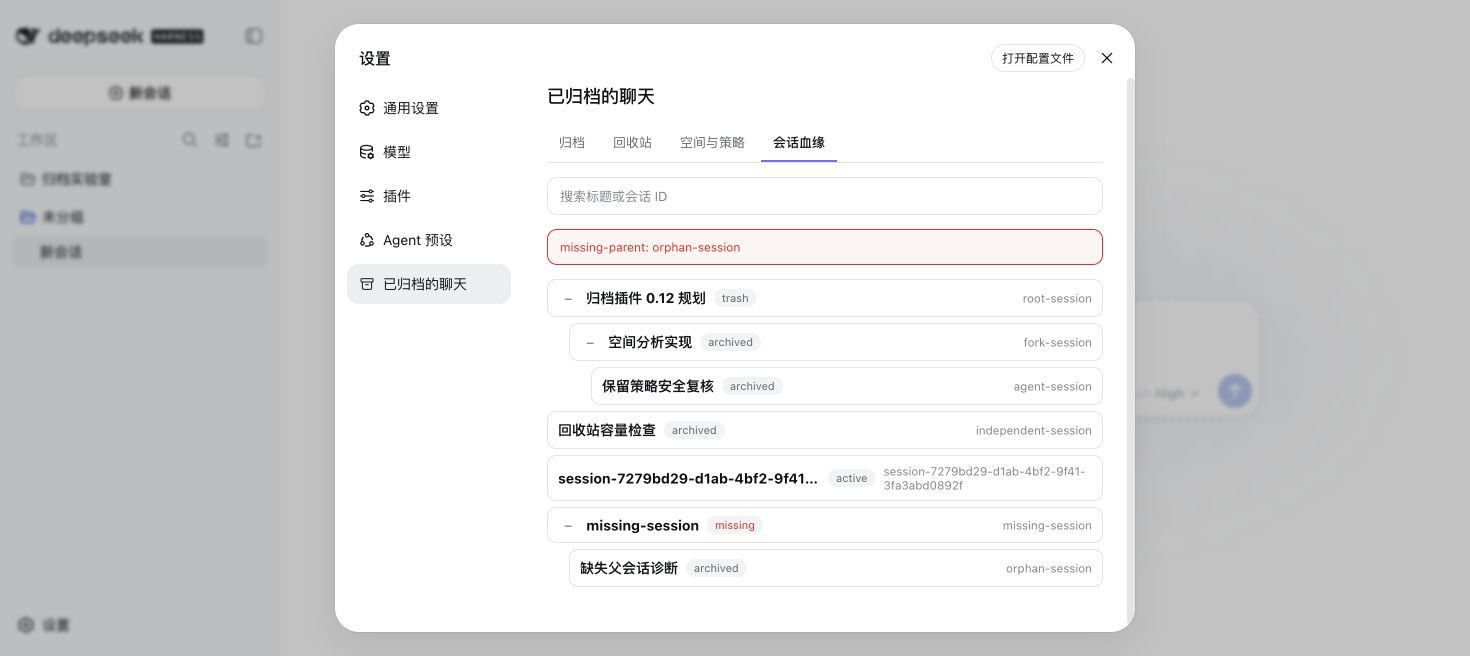
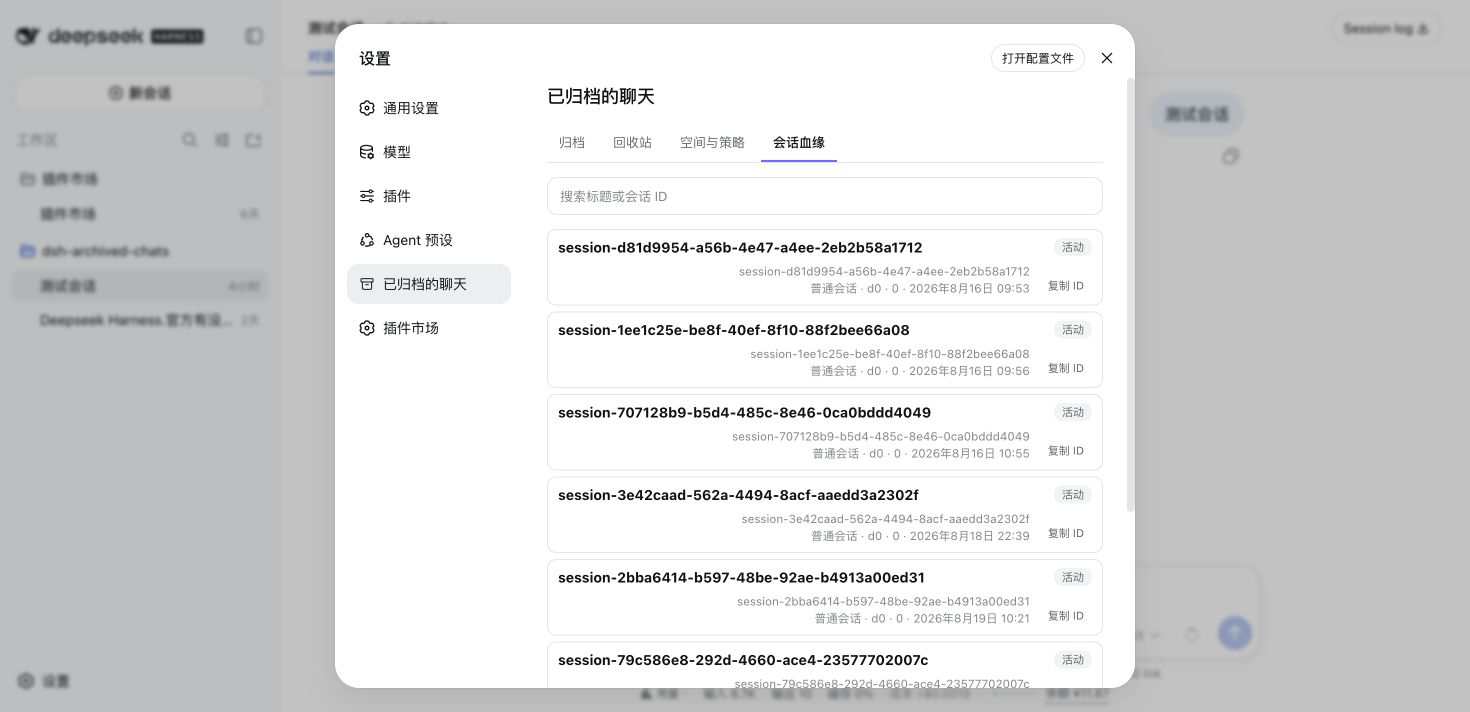
fix: clarify snapshots and add lineage ID copy

diff --git a/lib/client.js b/lib/client.js
@@ -70,6 +70,12 @@ window.__ModuleLoader__.load({
 				"insights.total": "已统计总量",
 				"insights.duplicate": "重复快照附件",
 				"insights.unavailable": "不可用会话 / 降级快照",
+				"insights.snapshot.active": "活动保护快照",
+				"insights.snapshot.history": "历史保护快照",
+				"insights.snapshot.degraded": "降级保护快照",
+				"insights.snapshot.original": "原会话",
+				"insights.snapshot.created": "创建时间",
+				"insights.snapshot.id": "快照 ID",
 				"retention.history": "每个会话保留历史快照",
 				"retention.snapshotAge": "历史快照最长保留天数",
 				"retention.quota": "快照容量上限（字节）",
@@ -92,6 +98,8 @@ window.__ModuleLoader__.load({
 				"retention.result": "已完成 / 失败",
 				"lineage.origin.session": "普通会话",
 				"lineage.origin.subagent": "子代理",
+				"lineage.copyId": "复制 ID",
+				"lineage.copiedId": "已复制",
 				"lineage.loading": "正在读取会话血缘…",
 				"lineage.error": "会话血缘暂不可用",
 				"lineage.search": "搜索标题或会话 ID",
@@ -245,6 +253,12 @@ window.__ModuleLoader__.load({
 				"insights.total": "Measured total",
 				"insights.duplicate": "Repeated snapshot attachments",
 				"insights.unavailable": "Unavailable sessions / degraded snapshots",
+				"insights.snapshot.active": "Active protection snapshot",
+				"insights.snapshot.history": "Historical protection snapshot",
+				"insights.snapshot.degraded": "Degraded protection snapshot",
+				"insights.snapshot.original": "Original chat",
+				"insights.snapshot.created": "Created",
+				"insights.snapshot.id": "Snapshot ID",
 				"retention.history": "Historical snapshots per session",
 				"retention.snapshotAge": "Historical snapshot maximum age in days",
 				"retention.quota": "Snapshot quota in bytes",
@@ -267,6 +281,8 @@ window.__ModuleLoader__.load({
 				"retention.result": "Applied / failed",
 				"lineage.origin.session": "Session",
 				"lineage.origin.subagent": "Subagent",
+				"lineage.copyId": "Copy ID",
+				"lineage.copiedId": "Copied",
 				"lineage.loading": "Loading session lineage…",
 				"lineage.error": "Session lineage is unavailable",
 				"lineage.search": "Search titles or session IDs",
@@ -802,6 +818,7 @@ window.__ModuleLoader__.load({
 .dac-insights-grid{display:grid;grid-template-columns:repeat(4,minmax(0,1fr));gap:10px}.dac-insights-card{display:flex;flex-direction:column;gap:5px;border:1px solid var(--dsw-alias-border-l2);border-radius:12px;background:var(--dsw-alias-bg-layer-1);padding:14px}.dac-insights-card span{color:var(--dsw-alias-label-tertiary);font-size:12px}.dac-insights-card strong{color:var(--dsw-alias-label-primary);font-size:18px}.dac-policy{display:grid;grid-template-columns:repeat(2,minmax(0,1fr));gap:12px;border:1px solid var(--dsw-alias-border-l2);border-radius:12px;padding:14px}.dac-policy label{display:flex;flex-direction:column;gap:5px;color:var(--dsw-alias-label-secondary);font-size:12px}.dac-policy input{border:1px solid var(--dsw-alias-border-l2);border-radius:8px;background:var(--dsw-alias-bg-layer-1);color:var(--dsw-alias-label-primary);padding:7px 9px}.dac-policy-actions{grid-column:1/-1;display:flex;justify-content:flex-end;gap:8px}.dac-retention-dialog{width:min(620px,calc(100vw - 48px));max-height:min(720px,calc(100vh - 48px))}.dac-retention-list{display:flex;flex-direction:column;gap:8px;overflow:auto}.dac-retention-row{display:flex;gap:10px;border:1px solid var(--dsw-alias-border-l2);border-radius:9px;padding:9px}.dac-retention-row span{display:flex;flex-direction:column}.dac-retention-row small{color:var(--dsw-alias-label-tertiary)}.dac-retention-row.dac-danger strong{color:var(--dsw-alias-state-error-primary)}.dac-lineage-tree{display:flex;flex-direction:column;gap:6px}.dac-lineage-node{min-width:0}.dac-lineage-row{display:flex;align-items:center;gap:8px;border:1px solid var(--dsw-alias-border-l2);border-radius:9px;background:var(--dsw-alias-bg-layer-1);padding:8px 10px}.dac-lineage-row button{border:0;background:transparent;color:var(--dsw-alias-label-secondary);cursor:pointer}.dac-lineage-row strong{min-width:0;overflow:hidden;text-overflow:ellipsis;white-space:nowrap}.dac-lineage-row small{margin-left:auto;color:var(--dsw-alias-label-tertiary);overflow:hidden;text-overflow:ellipsis}.dac-lineage-children{margin:6px 0 0 22px;display:flex;flex-direction:column;gap:6px}.dac-lineage-missing{color:var(--dsw-alias-state-error-primary)}
 .dac-import-main span{color:var(--dsw-alias-label-tertiary);font-size:11px}
 .dac-import-main small{color:var(--dsw-alias-state-error-primary);font-size:11px;line-height:16px}
+.dac-snapshot-row .dac-row-main{gap:3px}.dac-snapshot-id{white-space:normal;overflow-wrap:anywhere;word-break:break-word}.dac-lineage-row{flex-wrap:wrap}.dac-lineage-row>strong{flex:1 1 240px;white-space:normal;overflow:visible;text-overflow:clip;overflow-wrap:anywhere;word-break:break-word}.dac-lineage-detail{display:flex;align-items:flex-end;gap:10px;flex:1 1 100%;min-width:0}.dac-lineage-detail-copy{display:flex;flex:1 1 auto;min-width:0;flex-direction:column;gap:2px}.dac-lineage-id{white-space:normal;overflow-wrap:anywhere;word-break:break-word}.dac-lineage-copy{flex:none;border:1px solid var(--dsw-alias-border-l2);border-radius:7px;background:transparent;color:var(--dsw-alias-label-secondary);font:inherit;font-size:11px;line-height:16px;padding:3px 8px;cursor:pointer}.dac-lineage-copy:hover{background:var(--dsw-alias-interactive-bg-hover,rgba(127,127,127,.12));color:var(--dsw-alias-label-primary)}
 .dac-import-result{display:flex;gap:14px;color:var(--dsw-alias-state-success-primary);font-size:13px;line-height:20px}
 .dac-field-label{display:block;color:var(--dsw-alias-label-secondary);font-size:12px;line-height:18px}
 .dac-meta-input,.dac-meta-note{width:100%;box-sizing:border-box;border:1px solid var(--dsw-alias-border-l2);border-radius:9px;background:var(--dsw-alias-bg-layer-1);color:var(--dsw-alias-label-primary);font:inherit;font-size:13px;line-height:20px;padding:7px 10px;outline:none}
@@ -2057,6 +2074,26 @@ window.__ModuleLoader__.load({
 			}) });
 		}
 
+		function SnapshotInsightRows({ snapshots, sessions, t }) {
+			const sessionById = new Map((Array.isArray(sessions) ? sessions : []).map((session) => [session.id, session]));
+			return (0, jsx.jsx)("div", { className: "dac-list", children: (Array.isArray(snapshots) ? snapshots : []).map((row) => {
+				const ready = row.status === "ready";
+				const label = t(ready ? (row.active ? "insights.snapshot.active" : "insights.snapshot.history") : "insights.snapshot.degraded");
+				const source = sessionById.get(row.sessionId);
+				const original = typeof source?.title === "string" && source.title.trim() !== "" ? source.title : row.sessionId ?? "—";
+				const createdMs = ready && typeof row.createdAt === "string" ? Date.parse(row.createdAt) : Number.NaN;
+				return (0, jsx.jsxs)("div", { className: "dac-row dac-snapshot-row", children: [
+					(0, jsx.jsxs)("div", { className: "dac-row-main", children: [
+						(0, jsx.jsx)("strong", { children: label }),
+						(0, jsx.jsx)("span", { className: "dac-row-date", children: `${t("insights.snapshot.original")}：${original}` }),
+						(0, jsx.jsx)("span", { className: "dac-row-date", children: `${t("insights.snapshot.created")}：${Number.isFinite(createdMs) ? formatDate(t, createdMs) : "—"}` }),
+						(0, jsx.jsx)("span", { className: "dac-row-date dac-snapshot-id", title: row.snapshotId, children: `${t("insights.snapshot.id")}：${row.snapshotId}` }),
+					] }),
+					(0, jsx.jsx)("span", { className: "dac-row-size", children: ready ? formatBytes(row.totalBytes) : "—" })
+				] }, `snapshot:${row.snapshotId}`);
+			}) });
+		}
+
 		function StorageRetentionPanel({ t }) {
 			const [state, setState] = _react.useState({ status: "loading", value: null, error: null });
 			const [draft, setDraft] = _react.useState(null);
@@ -2102,7 +2139,7 @@ window.__ModuleLoader__.load({
 			return (0, jsx.jsxs)("div", { className: "dac-mode-panel", children: [
 				(0, jsx.jsx)("div", { className: "dac-insights-grid", children: cards.map(([label, display]) => (0, jsx.jsxs)("div", { className: "dac-insights-card", children: [(0, jsx.jsx)("span", { children: t(label) }), (0, jsx.jsx)("strong", { children: display })] }, label)) }),
 				(0, jsx.jsx)("div", { className: "dac-list", children: (value.sessions ?? []).map((row) => (0, jsx.jsxs)("div", { className: "dac-row", children: [(0, jsx.jsxs)("div", { className: "dac-row-main", children: [(0, jsx.jsx)("strong", { children: row.title ?? row.id }), (0, jsx.jsx)("span", { className: "dac-row-date", children: `${row.workspaceTitle ?? "—"} · ${row.scope}` })] }), (0, jsx.jsx)("span", { className: "dac-row-size", children: row.status === "ready" ? formatBytes(row.sizeBytes) : "—" })] }, `session:${row.id}`)) }),
-				(0, jsx.jsx)("div", { className: "dac-list", children: (value.snapshots ?? []).map((row) => (0, jsx.jsxs)("div", { className: "dac-row", children: [(0, jsx.jsxs)("div", { className: "dac-row-main", children: [(0, jsx.jsx)("strong", { children: row.snapshotId }), (0, jsx.jsx)("span", { className: "dac-row-date", children: row.status === "ready" ? `${row.sessionId}${row.active ? " · active" : ""}` : row.code })] }), (0, jsx.jsx)("span", { className: "dac-row-size", children: row.status === "ready" ? formatBytes(row.totalBytes) : "—" })] }, `snapshot:${row.snapshotId}`)) }),
+				(0, jsx.jsx)(SnapshotInsightRows, { snapshots: value.snapshots, sessions: value.sessions, t }),
 				message && (0, jsx.jsx)("div", { className: "dac-notice", role: "status", children: message }),
 				draft && (0, jsx.jsxs)("div", { className: "dac-policy", children: [
 					(0, jsx.jsxs)("label", { children: [(0, jsx.jsx)("span", { children: t("retention.history") }), (0, jsx.jsx)("input", { type: "number", min: 0, max: 20, value: draft.historicalSnapshotsPerSession, onChange: (event) => setNumber("historicalSnapshotsPerSession", event.target.value, false) })] }),
@@ -2128,9 +2165,20 @@ window.__ModuleLoader__.load({
 			return output;
 		}
 
-		function LineageTreeNodes({ nodes, collapsed, onToggle, t }) {
+		function LineageTreeNodes({ nodes, collapsed, onToggle, onCopy, copiedId, t }) {
 			return (0, jsx.jsx)(jsx.Fragment, { children: flattenLineageNodes(nodes, collapsed).map(({ node, level }) => (0, jsx.jsx)("div", { role: "treeitem", "aria-level": level, "aria-expanded": node.children.length > 0 ? !collapsed.has(node.id) : void 0, className: "dac-lineage-node", style: { marginLeft: `${Math.min(level - 1, 8) * 22}px` }, children:
-				(0, jsx.jsxs)("div", { className: "dac-lineage-row", children: [node.children.length > 0 && (0, jsx.jsx)("button", { type: "button", onClick: () => onToggle(node.id), children: collapsed.has(node.id) ? "+" : "−" }), (0, jsx.jsx)("strong", { title: node.id, children: node.title ?? node.id }), (0, jsx.jsx)("span", { className: `dac-trash-status dac-lineage-${node.status}`, style: { borderRadius: "8px", whiteSpace: "nowrap", flexShrink: 0 }, children: t(`lineage.status.${node.status}`) }), (0, jsx.jsx)("small", { children: `${node.id} · ${t(`lineage.origin.${node.origin ?? "session"}`)} · d${node.delegationDepth ?? 0} · ${node.children.length} · ${formatDate(t, node.createdAt)}` })] })
+				(0, jsx.jsxs)("div", { className: "dac-lineage-row", children: [
+					node.children.length > 0 && (0, jsx.jsx)("button", { type: "button", onClick: () => onToggle(node.id), children: collapsed.has(node.id) ? "+" : "−" }),
+					(0, jsx.jsx)("strong", { title: node.id, style: { whiteSpace: "normal", overflowWrap: "anywhere" }, children: node.title ?? node.id }),
+					(0, jsx.jsx)("span", { className: `dac-trash-status dac-lineage-${node.status}`, style: { borderRadius: "8px", whiteSpace: "nowrap", flexShrink: 0 }, children: t(`lineage.status.${node.status}`) }),
+					(0, jsx.jsxs)("div", { className: "dac-lineage-detail", children: [
+						(0, jsx.jsxs)("div", { className: "dac-lineage-detail-copy", children: [
+							(0, jsx.jsx)("small", { className: "dac-lineage-id", children: node.id }),
+							(0, jsx.jsx)("small", { children: `${t(`lineage.origin.${node.origin ?? "session"}`)} · d${node.delegationDepth ?? 0} · ${node.children.length} · ${formatDate(t, node.createdAt)}` })
+						] }),
+						(0, jsx.jsx)("button", { type: "button", className: "dac-lineage-copy", "aria-label": `${t("lineage.copyId")} ${node.id}`, onClick: () => onCopy?.(node.id), children: copiedId === node.id ? t("lineage.copiedId") : t("lineage.copyId") })
+					] })
+				] })
 			}, node.id)) });
 		}
 
@@ -2138,6 +2186,12 @@ window.__ModuleLoader__.load({
 			const [state, setState] = _react.useState({ status: "loading", value: null });
 			const [query, setQuery] = _react.useState("");
 			const [collapsed, setCollapsed] = _react.useState(() => new Set());
+			const [copiedId, setCopiedId] = _react.useState(null);
+			const copyId = _react.useCallback(async (id) => {
+				const clipboard = typeof navigator === "undefined" ? null : navigator.clipboard;
+				if (typeof clipboard?.writeText !== "function") return;
+				try { await clipboard.writeText(id); setCopiedId(id); } catch { /* Clipboard denial keeps the button retryable. */ }
+			}, []);
 			const load = _react.useCallback(async (signal) => {
 				setState({ status: "loading", value: null });
 				try { const value = await fetchLineage(signal); if (!signal?.aborted) setState({ status: "ready", value }); }
@@ -2150,7 +2204,7 @@ window.__ModuleLoader__.load({
 			return (0, jsx.jsxs)("div", { className: "dac-mode-panel", children: [
 				(0, jsx.jsx)("div", { className: "dac-search", children: (0, jsx.jsx)("input", { value: query, placeholder: t("lineage.search"), onChange: (event) => setQuery(event.target.value) }) }),
 				(state.value.diagnostics ?? []).length > 0 && (0, jsx.jsx)("div", { className: "dac-row-meta", role: "status", children: (state.value.diagnostics ?? []).map((item) => (0, jsx.jsx)("span", { className: "dac-chip dac-summary-warn", children: `${t(`lineage.diagnostic.${item.code}`)}: ${item.sessionId}` }, `${item.code}:${item.sessionId}`)) }),
-				roots.length === 0 ? (0, jsx.jsx)("div", { className: "dac-empty", children: t("lineage.empty") }) : (0, jsx.jsx)("div", { role: "tree", className: "dac-lineage-tree", children: (0, jsx.jsx)(LineageTreeNodes, { nodes: roots, collapsed, t, onToggle: (id) => setCollapsed((current) => setVisibleSelection(current, [id], !current.has(id))) }) })
+				roots.length === 0 ? (0, jsx.jsx)("div", { className: "dac-empty", children: t("lineage.empty") }) : (0, jsx.jsx)("div", { role: "tree", className: "dac-lineage-tree", children: (0, jsx.jsx)(LineageTreeNodes, { nodes: roots, collapsed, copiedId, t, onCopy: copyId, onToggle: (id) => setCollapsed((current) => setVisibleSelection(current, [id], !current.has(id))) }) })
 			] });
 		}
 
@@ -3175,7 +3229,7 @@ window.__ModuleLoader__.load({
 		//#endregion
 
 		exports.SETTINGS_NS = SETTINGS_NS;
-			exports.__test = { formatBytes, matchesArchivedSession, filterByTag, sortArchivedSessions, setVisibleSelection, reconcileSelection, uniqueSessionIds, defaultRetentionSelection, filterLineageForest, LineageTreeNodes, groupTrashSessions, trashStatusLabel, markArchiveDialog, submitExport, submitImportFile, fetchTrash, fetchInsights, saveRetentionPolicy, previewRetention, applyRetention, fetchLineage, restoreTrash, purgeTrash, emptyTrash, fetchArchivePreview, fetchArchiveImage, fetchArchiveSearch, buildPreviewNodes, previewCopyText, groupPreviewSegments, resolvePreviewPrimitives, PreviewMarkdown, PreviewReasoning, PreviewImage, editIconSpec: EDIT_ICON_SPEC };
+			exports.__test = { formatBytes, matchesArchivedSession, filterByTag, sortArchivedSessions, setVisibleSelection, reconcileSelection, uniqueSessionIds, defaultRetentionSelection, filterLineageForest, SnapshotInsightRows, LineageTreeNodes, groupTrashSessions, trashStatusLabel, markArchiveDialog, submitExport, submitImportFile, fetchTrash, fetchInsights, saveRetentionPolicy, previewRetention, applyRetention, fetchLineage, restoreTrash, purgeTrash, emptyTrash, fetchArchivePreview, fetchArchiveImage, fetchArchiveSearch, buildPreviewNodes, previewCopyText, groupPreviewSegments, resolvePreviewPrimitives, PreviewMarkdown, PreviewReasoning, PreviewImage, editIconSpec: EDIT_ICON_SPEC };
 		exports.apply = apply;
 		exports.inject = inject;
 		return module.exports;
